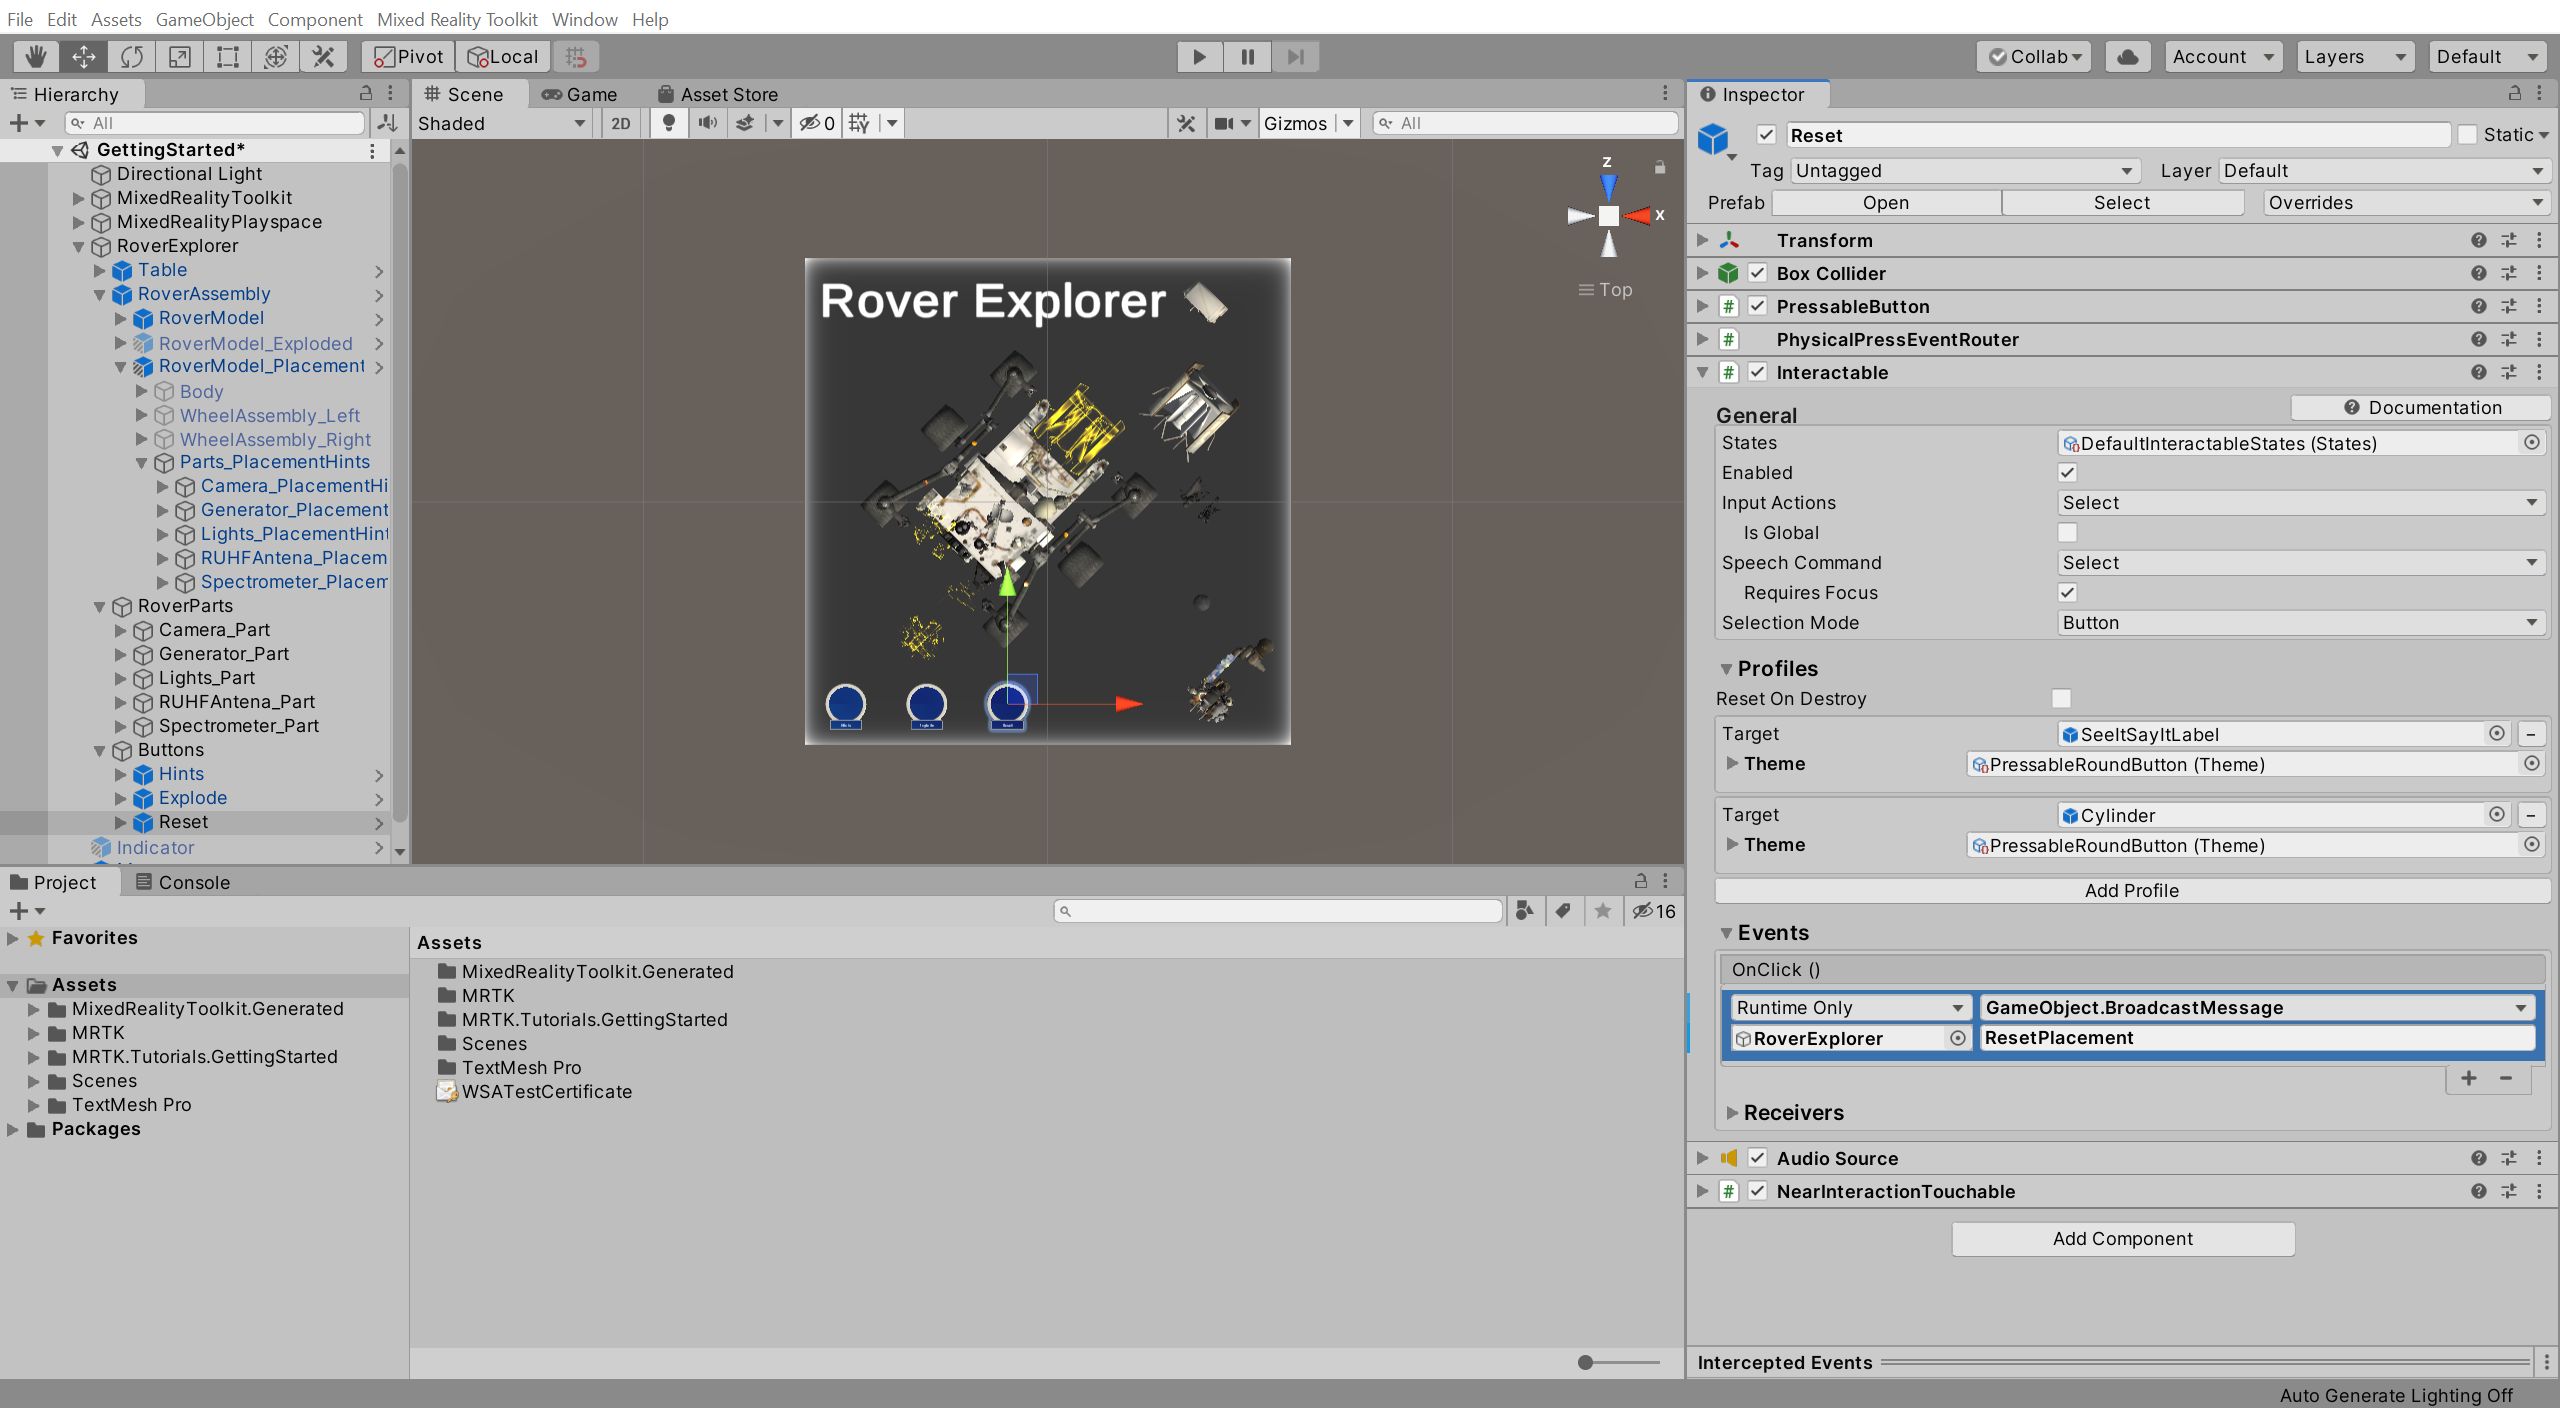
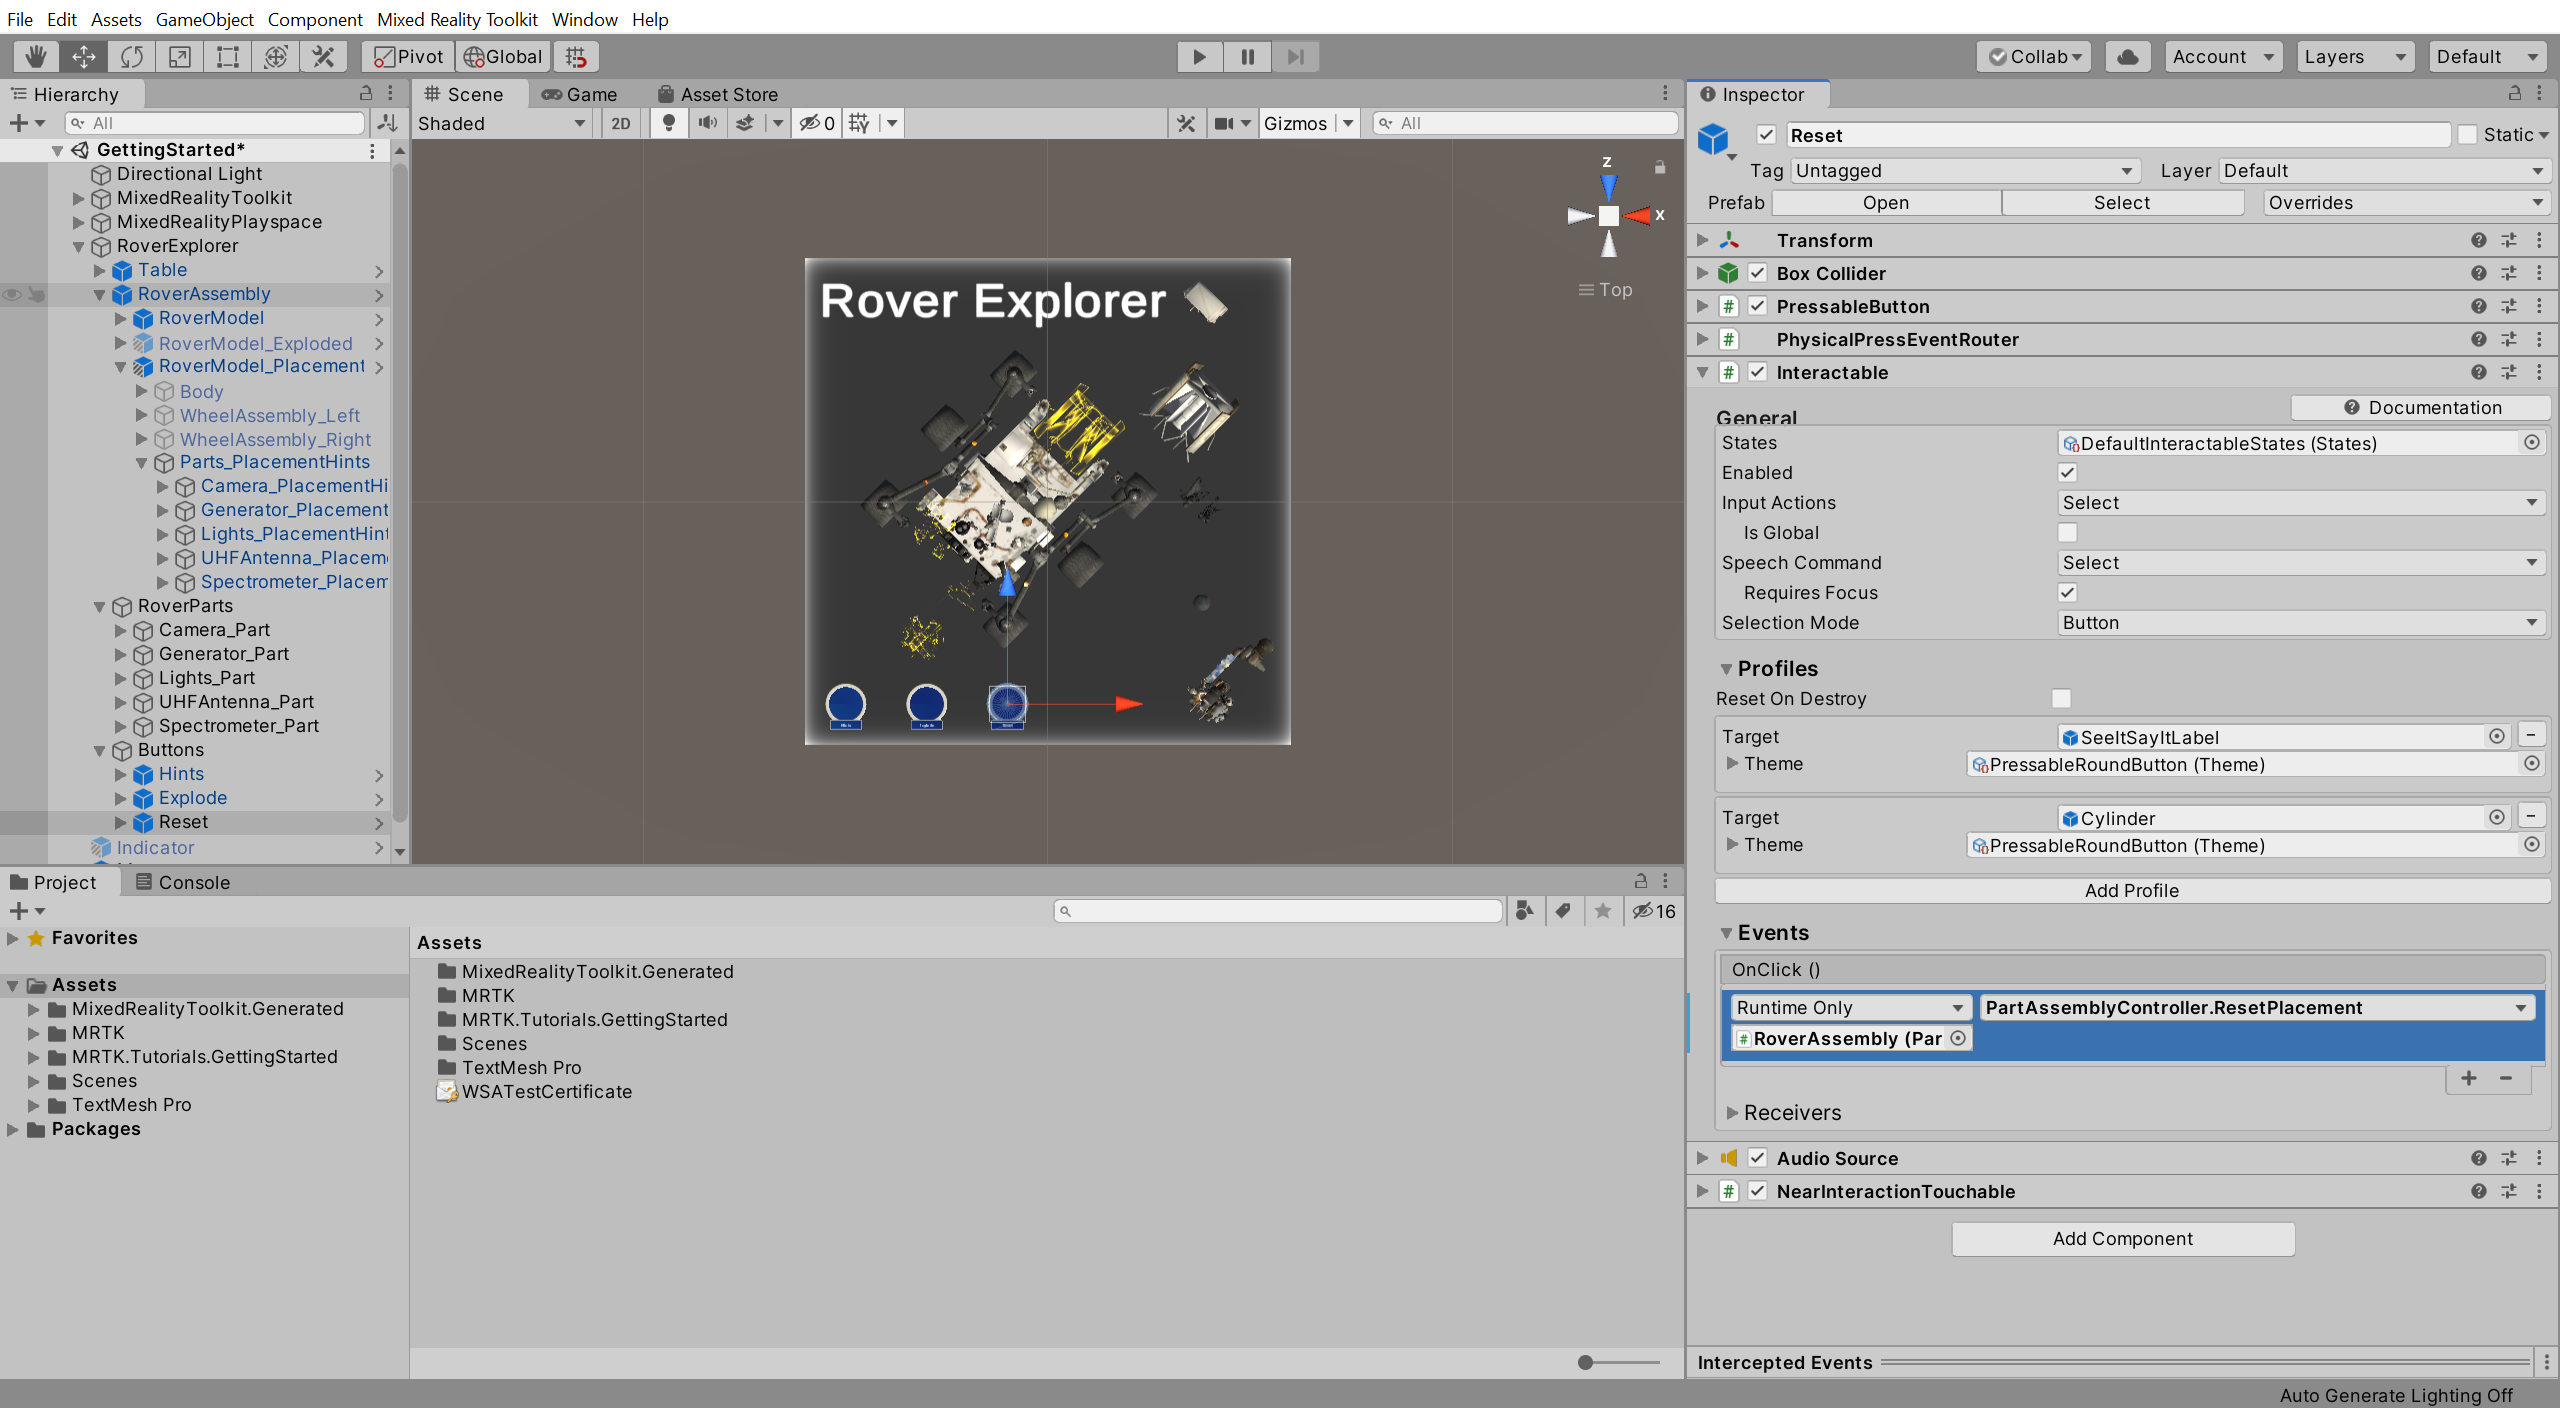
base-07: Update for changes in Sharing

diff --git a/mixed-reality-docs/mr-learning-base-07.md b/mixed-reality-docs/mr-learning-base-07.md
@@ -96,18 +96,14 @@ In the Hierarchy window, expand the RoverAssembly > RoverModel_PlacementHints_XR
 * For the **Lights_Part**, assign the **Lights_PlacementHint** object to the **Location To Place** field
 * For the **UHFAntenna_Part**, assign the **UHFAntenna_PlacementHint** object to the **Location To Place** field
 * For the **Spectrometer_Part**, assign the **Spectrometer_PlacementHint** object to the **Location To Place** field
-* For the **RoverAssembly**, leave the **Location To Place** field **unassigned**
+* For the **RoverAssembly**, assign the object itself, i.e. the same **RoverAssembly** object, to the **Location To Place** field
 
 In the Hierarchy window, select the RoverExplorer > Buttons > **Reset** button object, then in the Inspector window, configure the Interactable **OnClick ()** event as follows:
 
-* Assign the **RoverExplorer** object to the **None (Object)** field
-* From the **No Function** dropdown, select **GameObject** > **BroadcastMessage (string)** to set this function as the action to be executed when the event is triggered
-* Set the argument to **ResetPlacement** by copy/paste it into the field
+* Assign the **RoverAssembly** object to the **None (Object)** field
+* From the **No Function** dropdown, select **PartAssemblyController** > **ResetPlacement ()** to set this function as the action to be executed when the event is triggered
 
 ![mr-learning-base](images/mr-learning-base/base-07-section1-step1-6.png)
-
-> [!NOTE]
-> When the event is triggered, the message 'ResetPlacement' will be sent to all of the RoverExplorer's child objects, which will trigger the ResetPlacement function for all the child objects that has the Part Assembly Controller (Script) component, in this case, the RoverAssembly and all the rover parts.
 
 If you now enter Game mode, you can use near or far interaction to place the rover parts on to the Rover. Once the part is close to the corresponding placement hint, it will snap into place and become part of the Rover. To reset the placements, you can press the Reset button:
 
